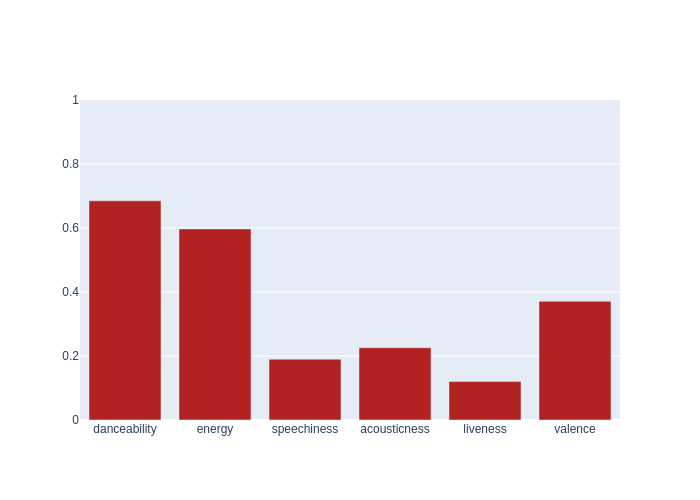
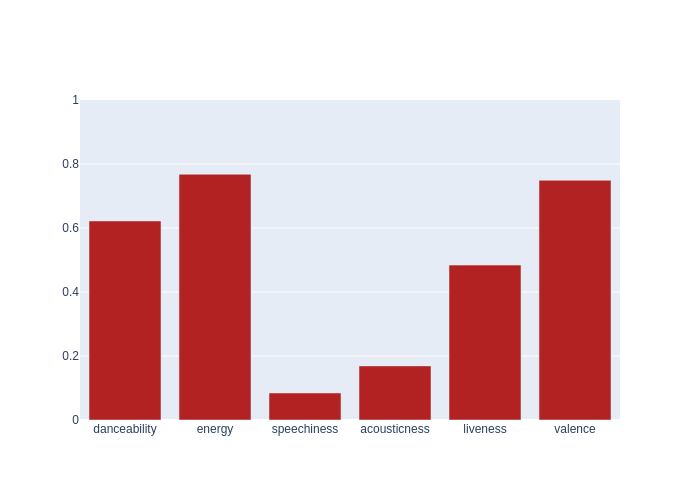
Automated README update

Changed region(s): [[0.36, 0.36, 0.87, 0.81], [0.12, 0.33, 0.36, 0.48]]

diff --git a/README.md b/README.md
@@ -4,7 +4,7 @@ Automated music metrics for fun, updated hourly.
 
 ## Spotify
 
-- currently listening to **Jon Bellion - He Is The Same**
+- currently listening to **Odeal - Passenger**
 
 - **3099** liked songs
 - **33** playlists
